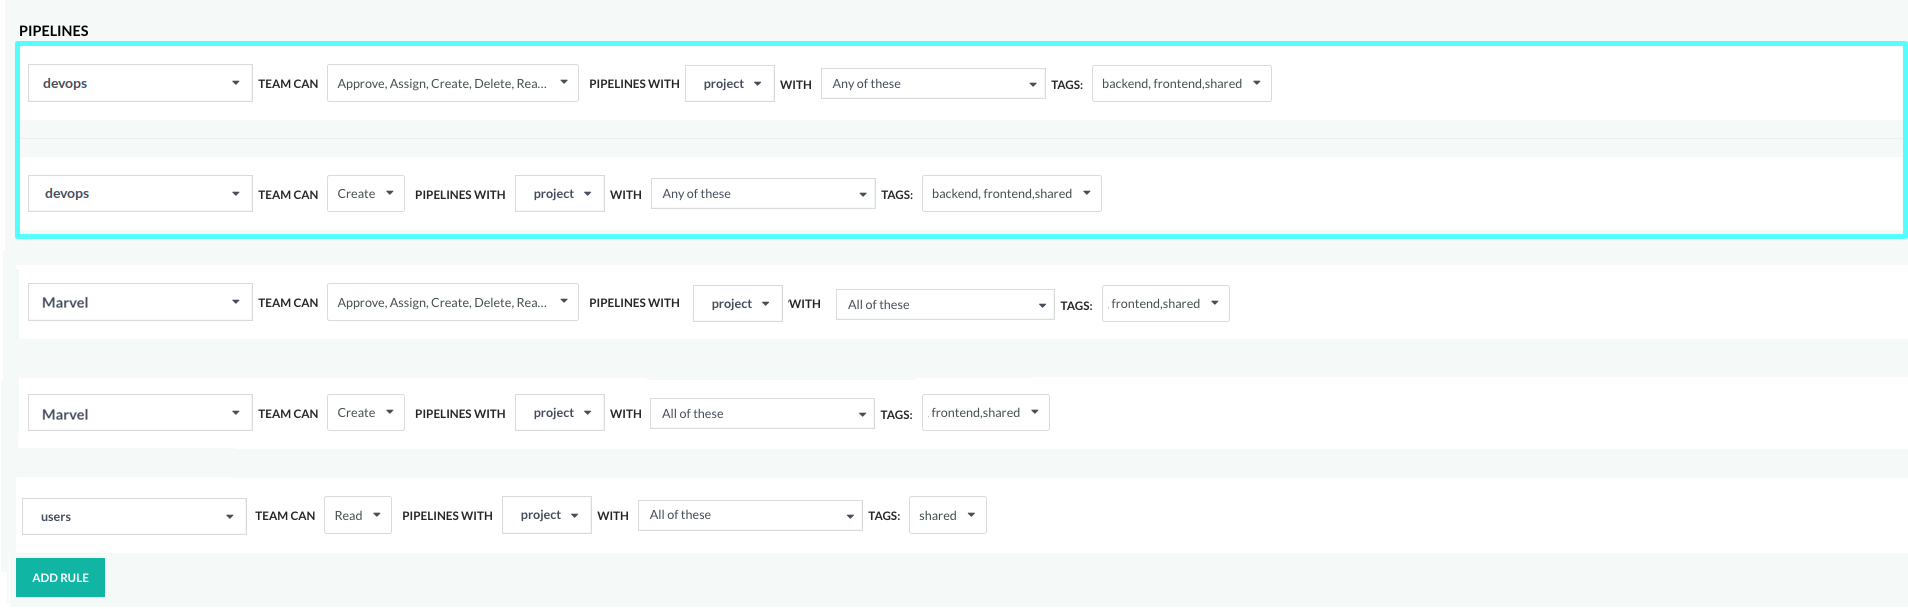
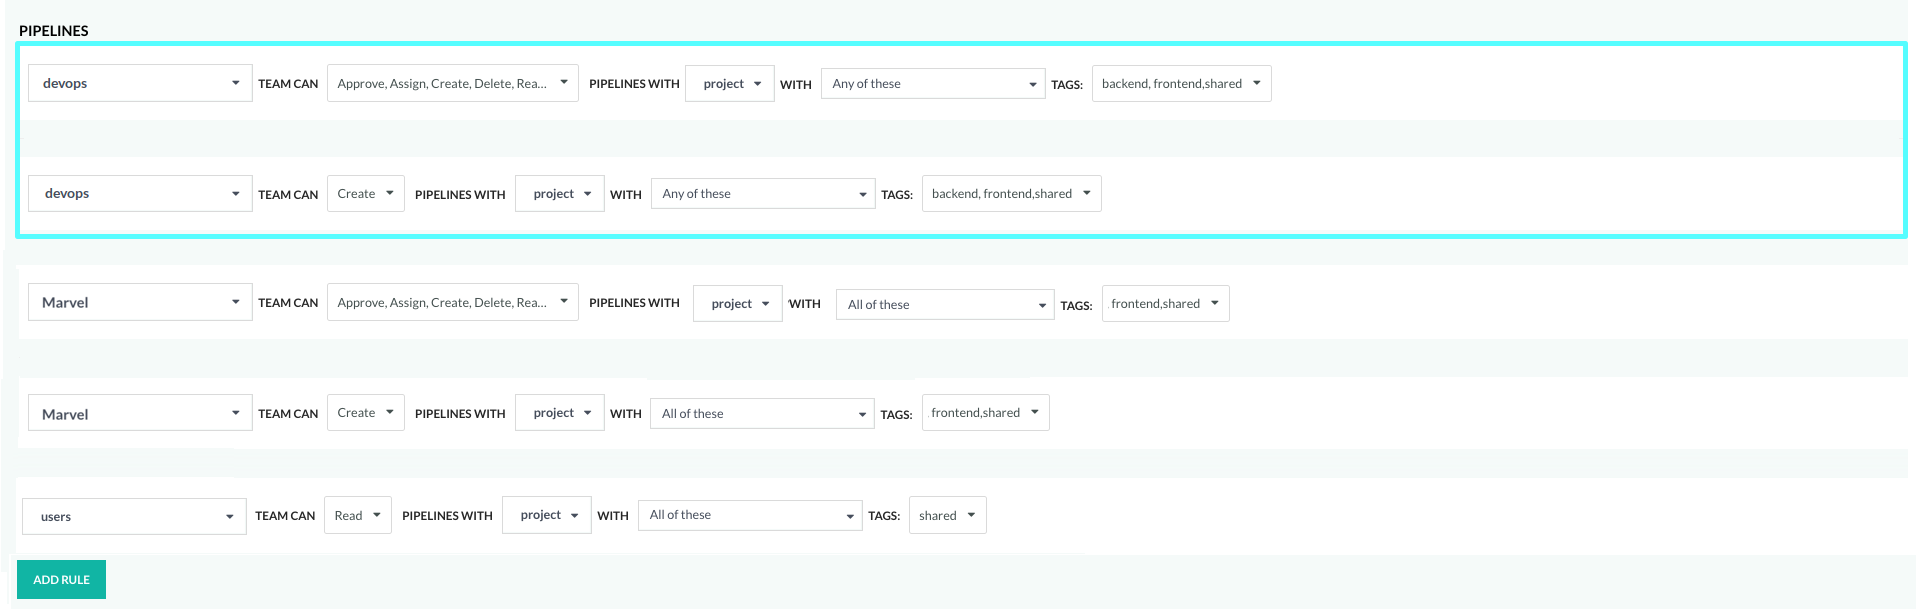
Update screenshots and content
Updated screenshots and content for account management overview topic

diff --git a/_docs/administration/account-user-management.md b/_docs/administration/account-user-management.md
@@ -1,15 +1,18 @@
 ---
-title: "Account and User Management"
-description: "Learn how Codefresh supports different users and teams"
+title: "Account and user management"
+description: "Learn how to add teams, users, and configure access control in Codefresh"
 group: administration
 toc: true
 ---
 
-Codefresh has comprehensive support for teams and users for handling scenarios for all organization sizes.
+Codefresh has comprehensive support for all aspects of administration for organizations<!---in both on-premises and SaaS environments-->.  
 
-* See [how to define users and teams]({{site.baseurl}}/docs/administration/account-user-management/add-users/)
-* Configure [access control]({{site.baseurl}}/docs/administration/account-user-management/access-control/). 
-* Get [audit logs]({{site.baseurl}}/docs/administration/account-user-management/audit/) to any runtime (hosted or private)
-* Learn [which IP addresses]({{site.baseurl}}/docs/administration/platform-ip-addresses/) are used for the SAAS runtime.
+Review:
 
-.
+* [Add users and teams]({{site.baseurl}}/docs/administration/account-user-management/add-users/) 
+* Configure [access control]({{site.baseurl}}/docs/administration/account-user-management/access-control/)
+* [Configure Single Sign-On (SSO)]({{site.baseurl}}/docs/administration/single-sign-on/)
+* Get [audit logs]({{site.baseurl}}/docs/administration/account-user-management/audit/) for runtimes (hosted or private)
+* Learn [which IP addresses]({{site.baseurl}}/docs/administration/platform-ip-addresses/) are used for SAAS runtimes
+
+<!--- For on-premises environments, see [On-premises account and user setup]({{site.baseurl}}/docs/installation/on-premises/on-prem-configuration/).  -->

diff --git a/_docs/administration/account-user-management/access-control.md b/_docs/administration/account-user-management/access-control.md
@@ -378,7 +378,7 @@ We need to define a Create rule each for teams DevOps and Marvel, and then diffe
   url="/images/administration/access-control/example-project-tags-devops.png"
   alt="Example: Unrestricted pipeline permissions for DevOps team by _any_ project tags"
   caption="Example: Unrestricted pipeline permissions for DevOps team by _any_ project tags"
-  max-width="60%"
+  max-width="70%"
   %}
 
 * For team Marvel:
@@ -391,7 +391,7 @@ We need to define a Create rule each for teams DevOps and Marvel, and then diffe
   url="/images/administration/access-control/example-project-tags-marvel.png"
   alt="Example: Restricting pipeline permissions by _all_ project tags"
   caption="Example: Restricting pipeline permissions by _all_ project tags"
-  max-width="60%"
+  max-width="70%"
   %}
 
 * For team Users: 
@@ -403,7 +403,7 @@ We need to define a Create rule each for teams DevOps and Marvel, and then diffe
   url="/images/administration/access-control/example-project-tags-users.png"
   alt="Example: Restricting team permissions for pipelines by _all_ project tags"
   caption="Example: Restricting team permissions for pipelines by _all_ project tags"
-  max-width="60%"
+  max-width="70%"
   %}
 
 ## Git-repository access for pipeline definitions 
